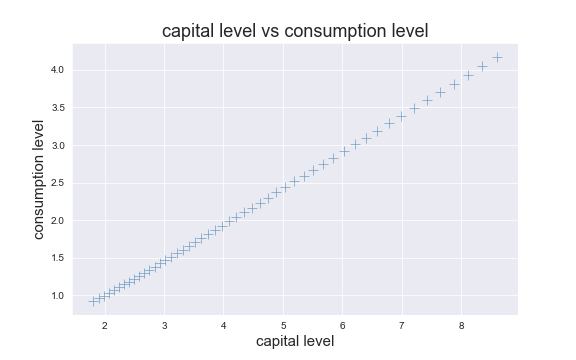
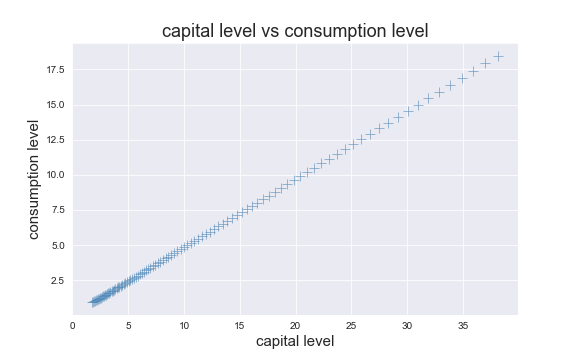
:pencil: Change simulate period to 100.

diff --git a/functions.py b/functions.py
@@ -121,7 +121,7 @@ def simulate_model(kss_sharp, css_sharp, params, T):
         x_sharp_dev[0, t] = (V[0, stab_col_ind] / V[1, stab_col_ind]) * x_sharp_dev[1, t]
 
     # Obtain levels (normalized).
-    x_sharp_level = x_sharp_dev + np.array([[css_sharp, kss_sharp], ] * 50).transpose()
+    x_sharp_level = x_sharp_dev + np.array([[css_sharp, kss_sharp], ] * T).transpose()
 
     # Obtain levels.
     X_level = x_sharp_level * ((1 + n) * (1 + g)) ** np.array(list(range(T)))

diff --git a/application.py b/application.py
@@ -15,7 +15,7 @@ g = 0.02
 sigma = 1.0
 
 # Set the number of time periods to simulate.
-T = 50
+T = 100
 
 # Make parameter list to pass to functions.
 params = np.array([alpha, beta, delta, n, g, sigma])
